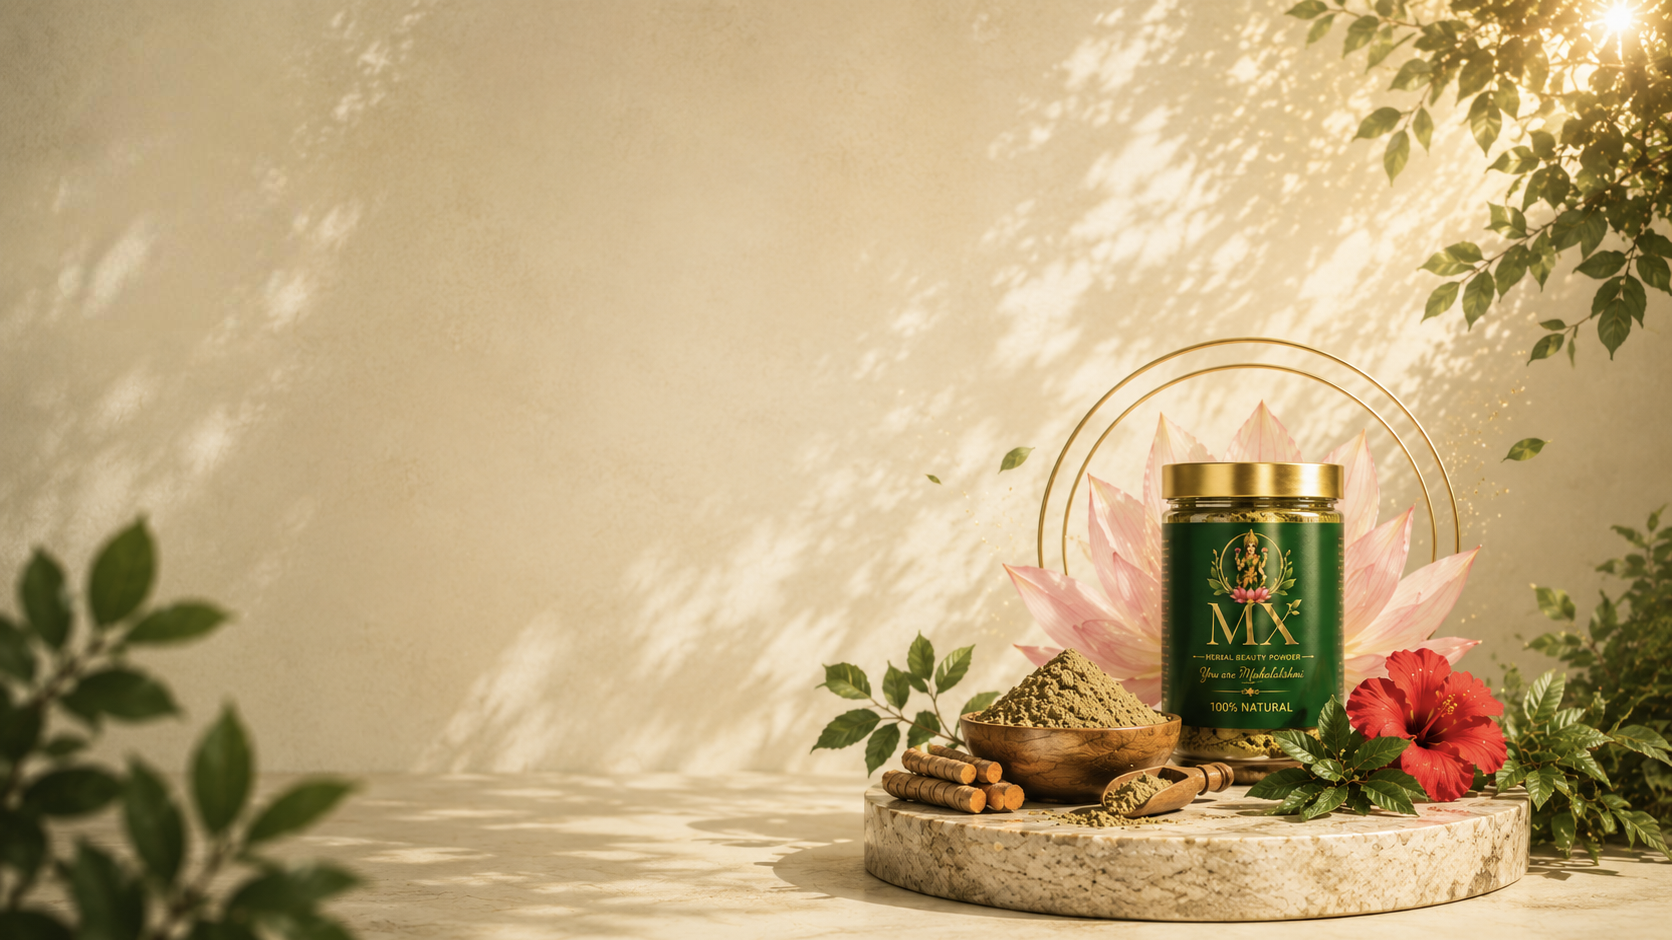
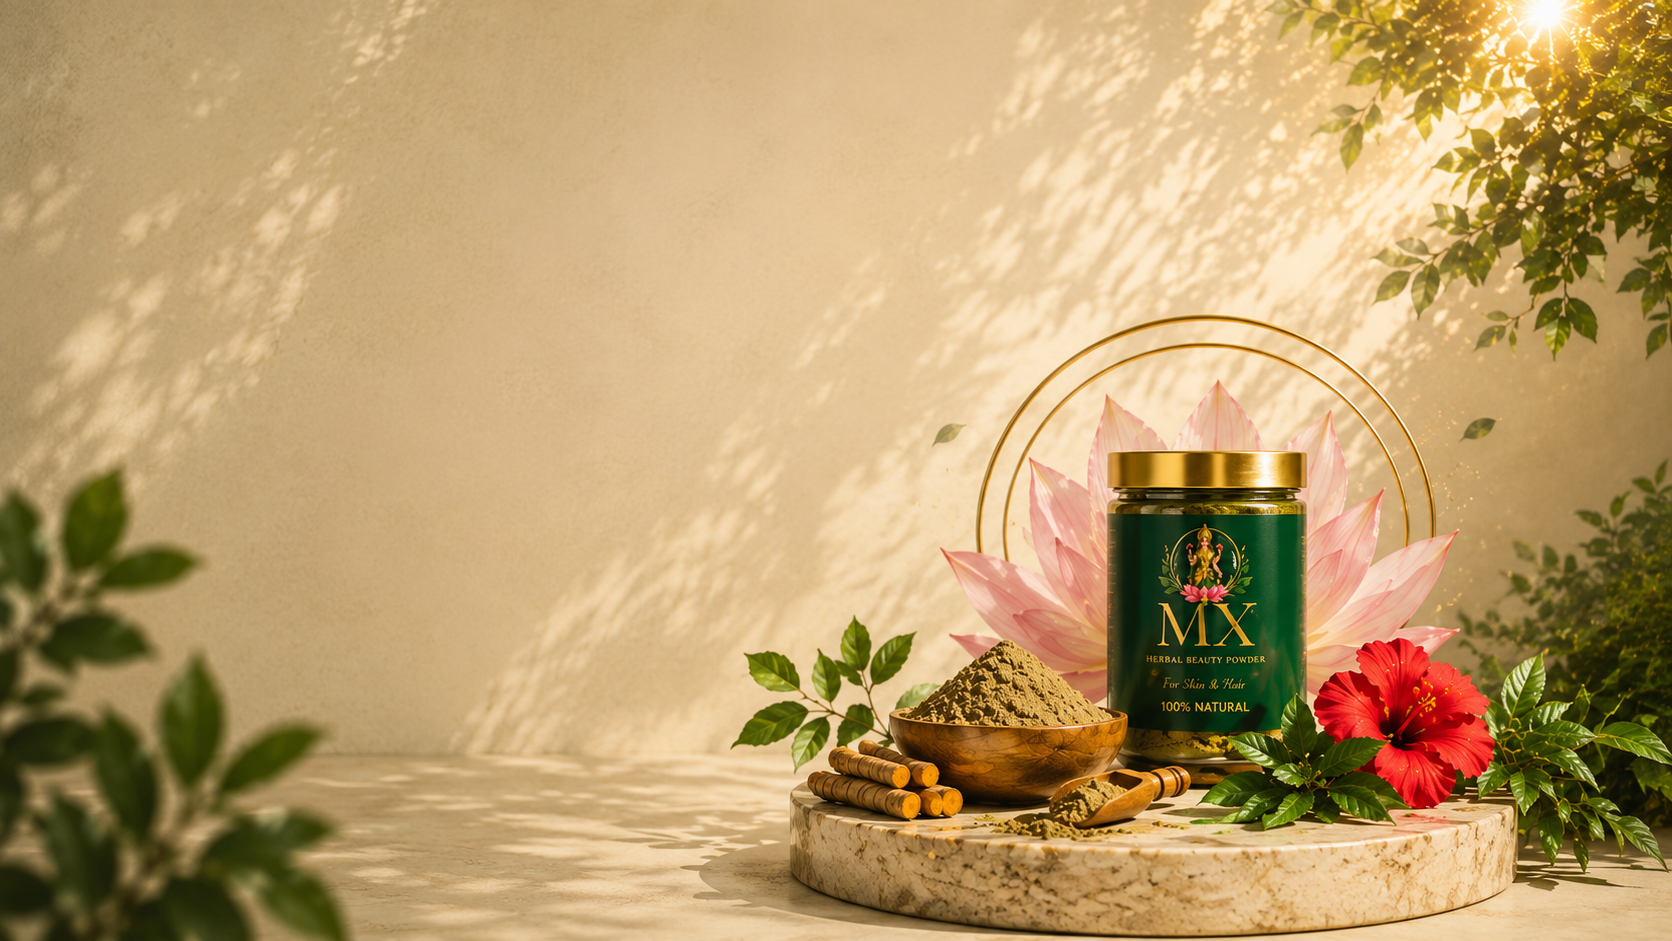
Optimize hero background image scaling and alignment specifically for mobile devices

diff --git a/style.css b/style.css
@@ -1429,7 +1429,8 @@ body.loaded .scroll-indicator {
     
     /* Background adaptation: Center product jar horizontally and anchor pedestal exactly at the bottom */
     .hero-bg-image {
-        background-position: 65% bottom; /* Center-right details of 16:9 canvas pushed to center bottom */
+        background-position: 80% bottom; /* Shift image leftwards to pull the right-side jar into view */
+        background-size: auto 75%;       /* Scale down the elements slightly to fit nicely without overlapping buttons */
     }
     
     /* Vertical gradient that provides high contrast at the top for centered text, fading to 0% at the bottom */